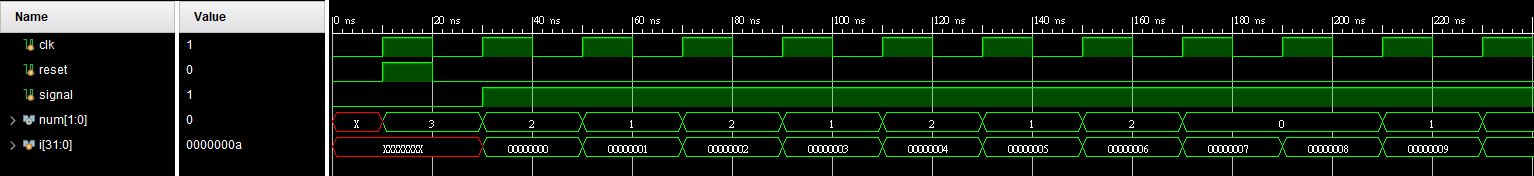
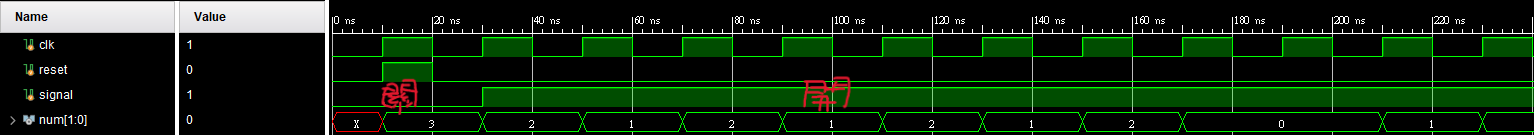
Q2.2 update

diff --git a/Q2.2/README.md b/Q2.2/README.md
@@ -10,16 +10,30 @@ assign temp = src[7] ^ src[1] ^ src[0];
 ```verilog
 always@(posedge clk or posedge reset)begin
 	if(reset)
-```
-
-##### 初始值(seed) 8'b10110101 取中間兩位做為輸出
-```verilog
-		src <= 8'b10110101;
+		src <= 8'b10110101;  初始值(seed) 8'b10110101 取中間兩位做為輸出
 	else if (signal)
 		src <= {src[6:0] , temp};
 end
 ```
-![testbench](images/testbench.png)
+```verilog
+    initial begin
+		clk = 0;
+		reset = 0;
+		signal = 0;
+	end
+	integer i;
+	initial begin
+		#10 reset = 1;
+		#10 reset = 0;
+        #10 signal = 1;
+        
+    
+        for (i = 0; i < 10; i = i + 1) begin
+            #20;
+            $display("Random = %d", num);
+        end
+    end
+```
 
 ![behavioral](images/behavioral.png)
 ##### 隨然取10個數中並沒有3 但在後續的模擬中是有的
